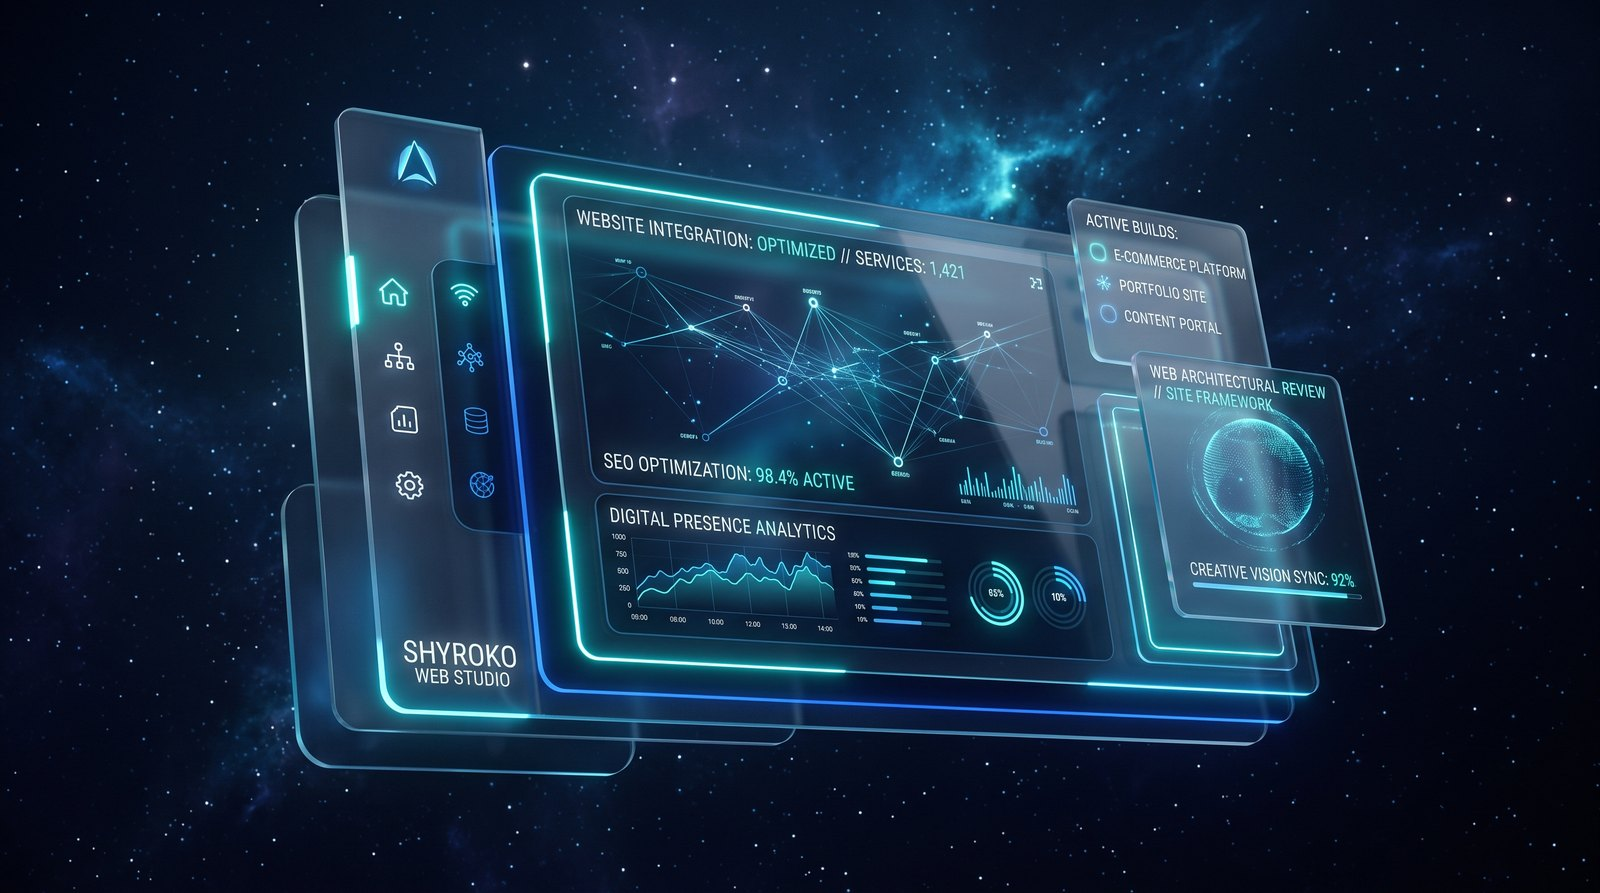
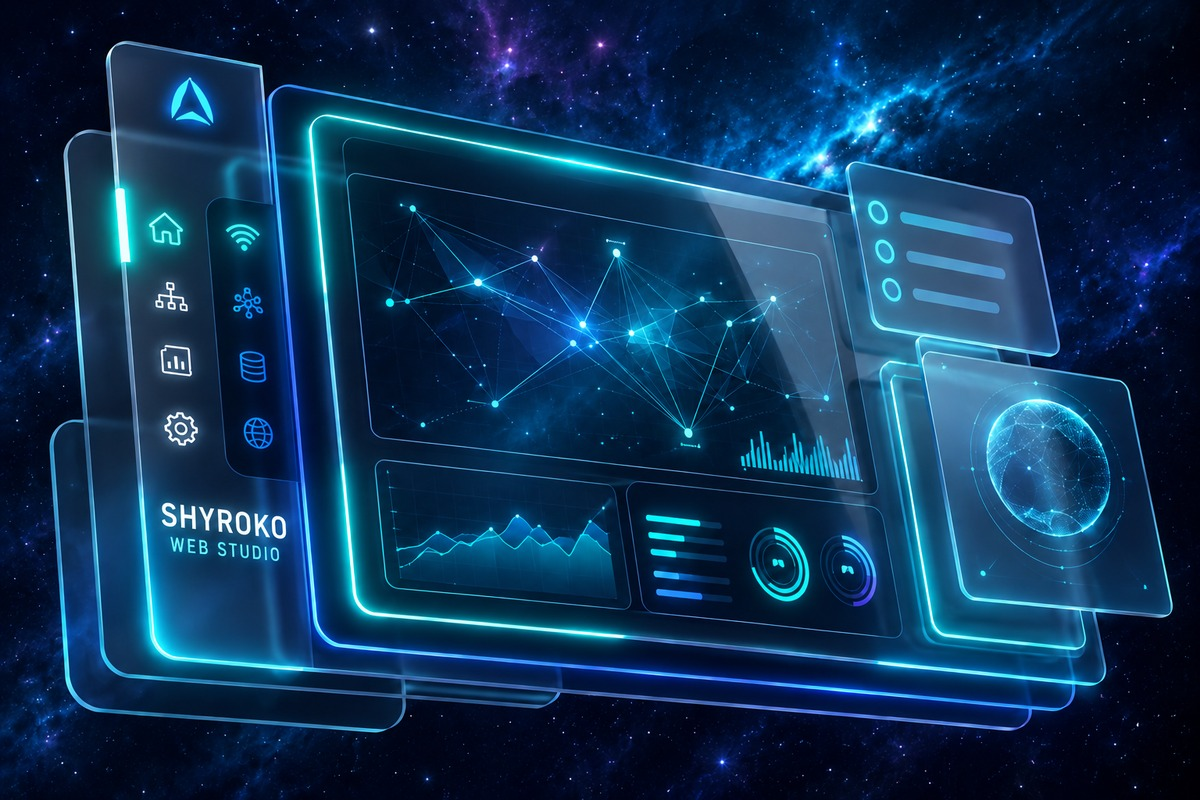
Update SHYROKO hero and page navigation

diff --git a/index.html b/index.html
@@ -4,7 +4,7 @@
   <meta charset="utf-8">
   <meta name="viewport" content="width=device-width, initial-scale=1">
   <meta http-equiv="Content-Security-Policy" content="default-src 'self'; script-src 'none'; style-src 'self'; img-src 'self'; object-src 'none'; base-uri 'none'; form-action 'none'">
-  <title>Сайти, що відкривають більше можливостей для бізнесу</title>
+  <title>Сучасні сайти для вашого бізнесу</title>
   <meta name="description" content="Створюємо сучасні адаптивні сайти для спеціалістів, сервісних компаній і локальних брендів — від продуманої структури та дизайну до готових файлів для публікації.">
   <link rel="stylesheet" href="styles.css">
 </head>
@@ -12,7 +12,7 @@
   <a class="skip-link" href="#main-content">Перейти до основного вмісту</a>
   <header class="site-header">
     <div class="container header-layout">
-      <a class="wordmark" href="#hero"><img class="brand-logo" src="assets/asset-01.png" alt="SHYROKO Web Studio логотип" width="160" height="48" decoding="async"></a>
+      <a class="wordmark" href="#hero"><span class="shyroko-brand-mark" aria-hidden="true"><span></span><span></span><span></span></span><span class="shyroko-brand-text"><span>SHYROKO</span><span>WEB STUDIO</span></span></a>
       <nav aria-label="Основна навігація">
         <ul class="nav-list">
           <li><a href="#hero">Головна</a></li>
@@ -32,13 +32,13 @@
     <section id="hero" class="hero-section" aria-labelledby="hero-title">
       <div class="container hero-grid">
         <div>
-          <p class="eyebrow">SHYROKO WEB STUDIO</p>
+
           <p class="hero-tagline">Створюємо ширший простір для вашого бізнесу.</p>
-          <h1 id="hero-title">Сайти, що відкривають більше можливостей для бізнесу</h1>
+          <h1 id="hero-title">Сучасні сайти для вашого бізнесу</h1>
           <p class="hero-copy">Створюємо сучасні адаптивні сайти для спеціалістів, сервісних компаній і локальних брендів — від продуманої структури та дизайну до готових файлів для публікації.</p>
           <div class="hero-actions">
-            <a class="button button-primary" href="#final-cta">Обговорити майбутній сайт</a>
-            <a class="button button-secondary" href="#process">Переглянути наш підхід</a>
+            <a class="button button-primary" href="#portfolio">Переглянути демонстраційні сайти</a>
+            <a class="button button-secondary" href="#final-cta">Обговорити сайт</a>
           </div>
         </div>
                 <figure class="hero-media">
@@ -122,7 +122,7 @@
           <article class="info-card">
             <span class="card-index">03</span>
             <h3>Салонам і майстрам</h3>
-            <p>Для презентації послуг, атмосфери, напрямів роботи та способів запису.</p>
+            <p>Для презентації послуг, атмосфери, напрямів роботи та способів зв’язку.</p>
           </article>
           <article class="info-card">
             <span class="card-index">04</span>
@@ -363,7 +363,7 @@
       </div>
     </section>
   </main>
-  <nav class="floating-page-nav" aria-label="Навігація сторінкою"><a class="page-jump" href="#final-cta" aria-label="Перейти до контактів"><span aria-hidden="true">↓</span><span class="page-jump-label"> До контактів</span></a><a class="back-to-top" href="#hero" aria-label="Повернутися нагору"><span aria-hidden="true">↑</span><span class="back-to-top-label"> Нагору</span></a></nav>
+  <nav class="floating-page-nav" aria-label="Навігація сторінкою"><a class="page-jump" href="#final-cta" aria-label="Перейти до контактів"><span aria-hidden="true">↓</span><span class="page-jump-label"> Контакти</span></a><a class="back-to-top" href="#hero" aria-label="Повернутися до головної секції"><span aria-hidden="true">↑</span><span class="back-to-top-label"> Головна</span></a></nav>
   <footer class="site-footer">
     <div class="container footer-layout">
       <p>SHYROKO Web Studio</p>

diff --git a/styles.css b/styles.css
@@ -1091,17 +1091,59 @@ h3 {
   background: color-mix(in srgb, #070a18 82%, transparent);
 }
 
+[data-showcase="lumina-commercial-showcase"] .wordmark {
+  gap: 10px;
+  align-items: center;
+  color: #f4f7ff;
+}
+
+[data-showcase="lumina-commercial-showcase"] .shyroko-brand-mark {
+  width: 34px;
+  height: 34px;
+  display: grid;
+  grid-template-columns: repeat(2, 1fr);
+  grid-template-rows: repeat(2, 1fr);
+  gap: 4px;
+  transform: rotate(-8deg);
+}
+
+[data-showcase="lumina-commercial-showcase"] .shyroko-brand-mark span {
+  border-radius: 6px;
+  background: linear-gradient(135deg, #8db4ff, #a78bfa);
+}
+
+[data-showcase="lumina-commercial-showcase"] .shyroko-brand-mark span:first-child {
+  grid-row: span 2;
+}
+
+[data-showcase="lumina-commercial-showcase"] .shyroko-brand-text {
+  display: grid;
+  gap: 1px;
+  line-height: 1;
+  letter-spacing: 0;
+}
+
+[data-showcase="lumina-commercial-showcase"] .shyroko-brand-text span:first-child {
+  font-size: 0.98rem;
+}
+
+[data-showcase="lumina-commercial-showcase"] .shyroko-brand-text span:last-child {
+  color: var(--color-muted);
+  font-size: 0.66rem;
+  font-weight: 800;
+}
+
 [data-showcase="lumina-commercial-showcase"] .hero-section {
-  min-height: min(860px, calc(100vh - 74px));
+  min-height: min(820px, calc(100vh - 74px));
   display: grid;
   align-items: center;
-  padding-block: clamp(4rem, 7vw, 7.5rem);
+  padding-block: clamp(3rem, 5.6vw, 5.75rem);
   scroll-margin-top: 84px;
 }
 
 [data-showcase="lumina-commercial-showcase"] h1 {
-  max-width: 13ch;
-  font-size: clamp(3rem, 2.3rem + 3.1vw, 6.4rem);
+  max-width: 14ch;
+  font-size: clamp(2.85rem, 2.15rem + 2.7vw, 5.35rem);
 }
 
 [data-showcase="lumina-commercial-showcase"] .hero-tagline {
@@ -1130,7 +1172,17 @@ h3 {
 }
 
 [data-showcase="lumina-commercial-showcase"] .hero-media {
+  min-height: 0;
+  aspect-ratio: 3 / 2;
   transform: none;
+}
+
+[data-showcase="lumina-commercial-showcase"] .hero-image {
+  min-height: 0;
+  height: 100%;
+  aspect-ratio: auto;
+  object-fit: contain;
+  object-position: 50% 50%;
 }
 
 [data-showcase="lumina-commercial-showcase"] .cards-grid,
@@ -1302,12 +1354,15 @@ h3 {
 
 [data-showcase="lumina-commercial-showcase"] .floating-page-nav {
   position: fixed;
-  right: max(18px, env(safe-area-inset-right));
+  inset-inline: 0;
   bottom: max(18px, env(safe-area-inset-bottom));
   z-index: 9;
-  display: grid;
+  width: max-content;
+  max-width: calc(100% - 32px);
+  display: flex;
   gap: 10px;
-  justify-items: end;
+  justify-content: center;
+  margin-inline: auto;
 }
 
 [data-showcase="lumina-commercial-showcase"] .page-jump,
@@ -1522,7 +1577,6 @@ h3 {
   }
 
   [data-showcase="lumina-commercial-showcase"] .floating-page-nav {
-    right: max(12px, env(safe-area-inset-right));
     bottom: max(12px, env(safe-area-inset-bottom));
     gap: 8px;
   }
@@ -1570,6 +1624,11 @@ h3 {
 @media (min-width: 1024px) {
   .hero-grid {
     grid-template-columns: minmax(0, 1.08fr) minmax(340px, 0.92fr);
+  }
+
+  [data-showcase="lumina-commercial-showcase"] .hero-grid {
+    grid-template-columns: minmax(0, 0.86fr) minmax(460px, 1.14fr);
+    gap: clamp(2rem, 3.2vw, 3.5rem);
   }
 
   [data-showcase="beauty-salon-showcase"] .hero-grid {
